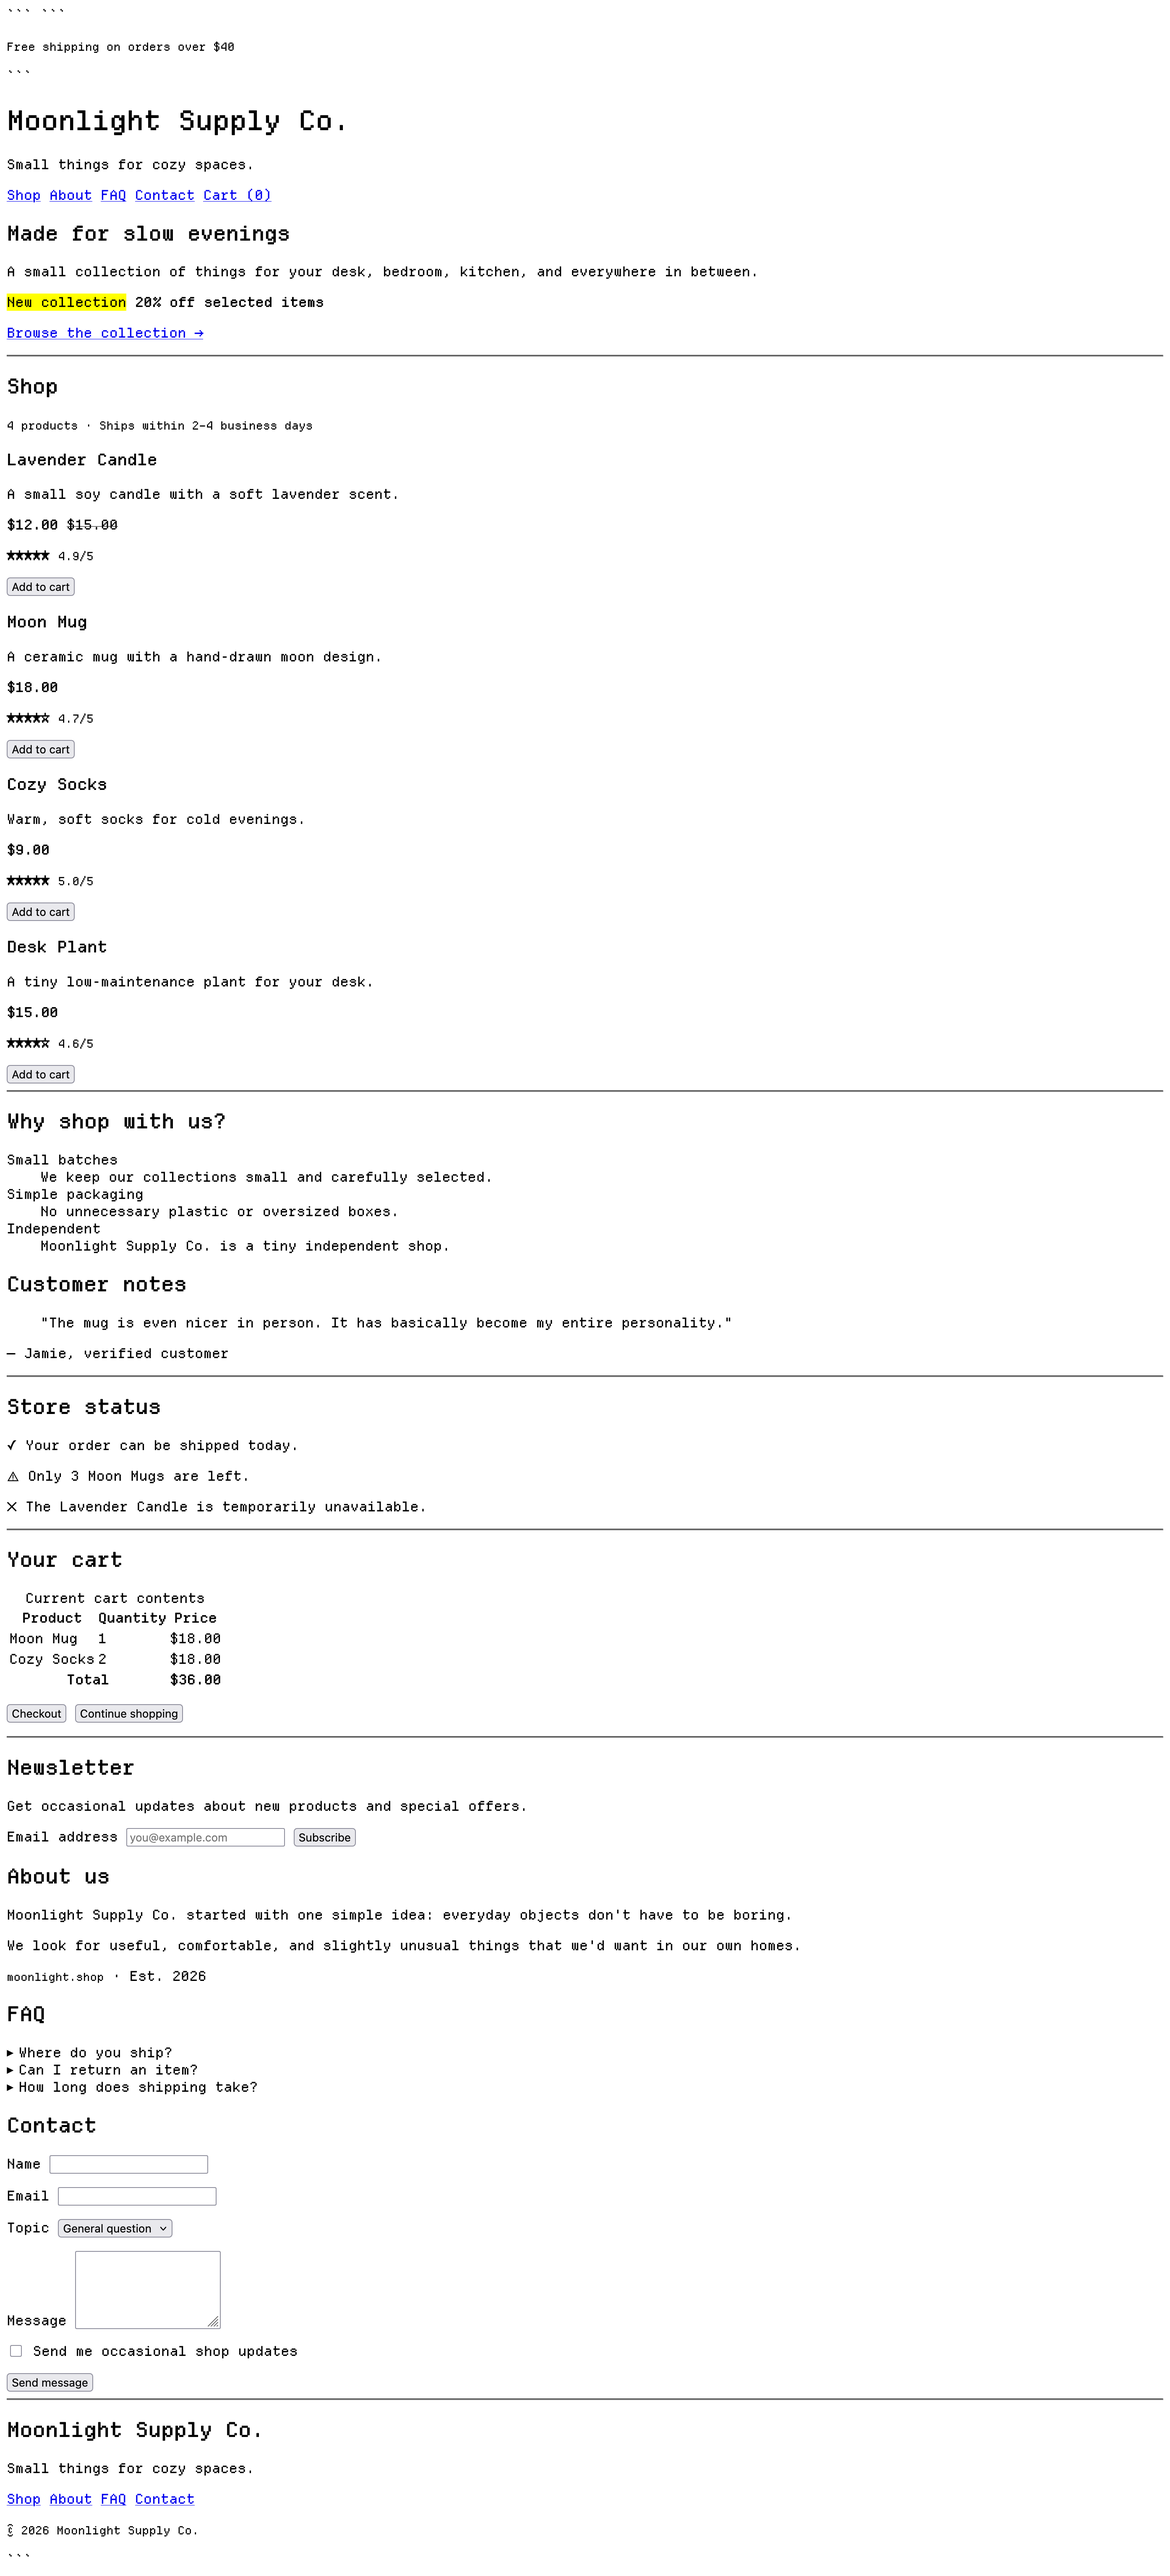
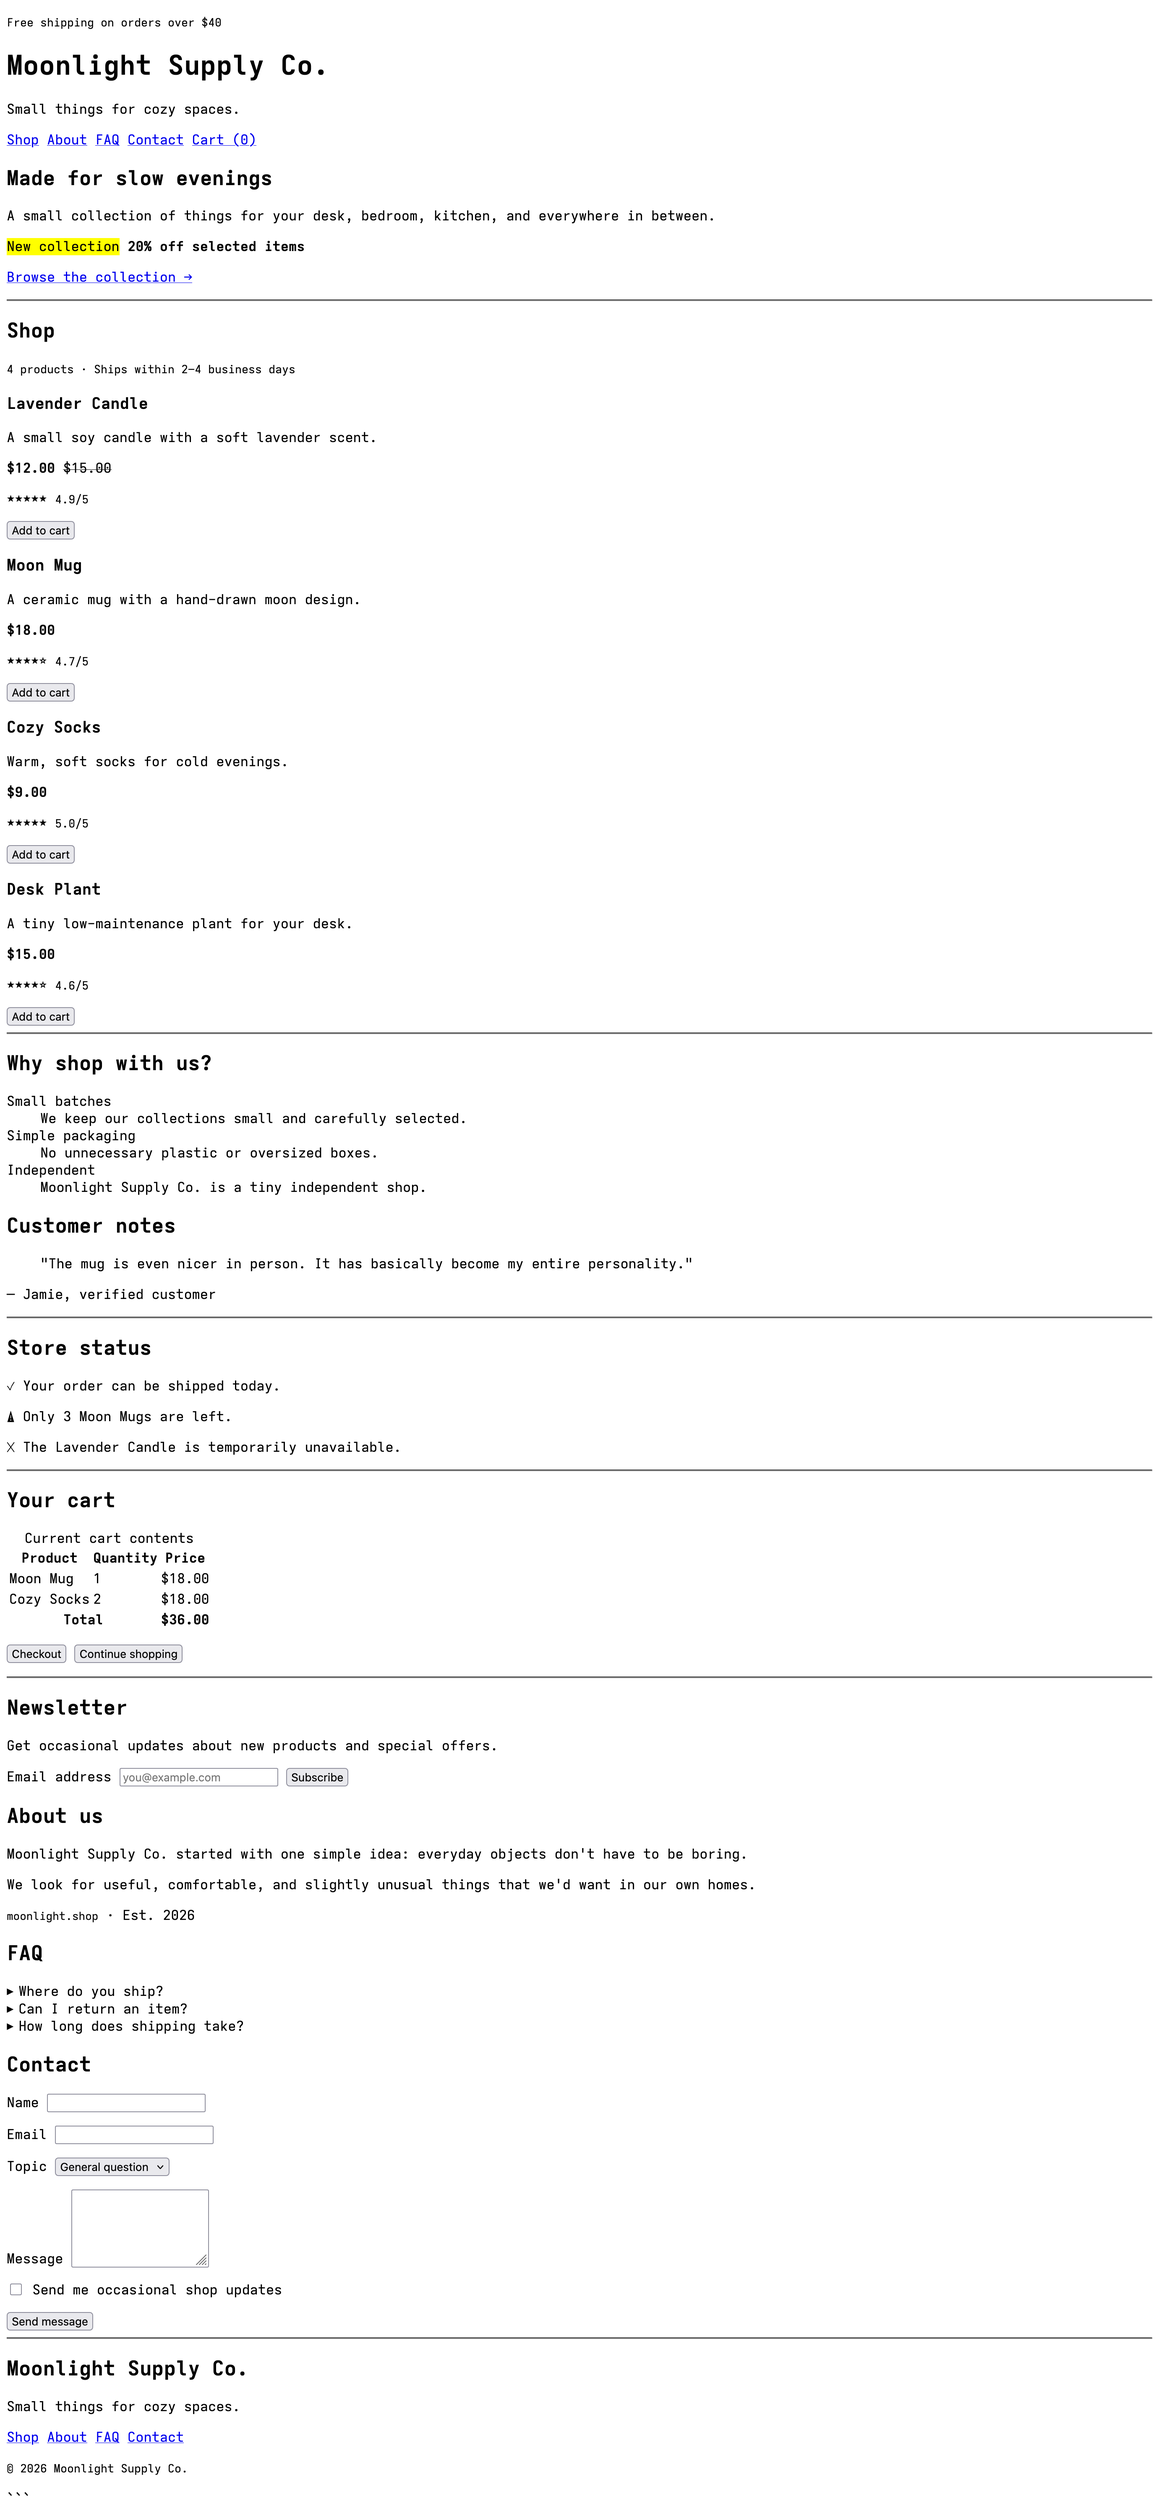
fixed text bug with new demo

diff --git a/demo/style.css b/demo/style.css
@@ -1,103 +1,93 @@
 a:link {
-  color: var(--blue) !important;
+  color: var(--blue);
 }
 
 a:visited {
-  color: var(--mauve) !important;
+  color: var(--mauve);
 }
 
 button, input, textarea, select, list {
-  color: var(--text) !important;
-  background-color: var(--base) !important;
+  color: var(--text);
+  background-color: var(--base);
   border-color: var(--mauve)
 }
 
 button:disabled {
-  background-color: var(--crust) !important;
+  background-color: var(--crust);
 }/* import this file in every html test*/
 
 body {
-  background-color: var(--base) !important;
+  background-color: var(--base);
 }
 
 hr {
-  color: var(--rosewater) !important;
-}h1 {
-  color: var(--text) !important;
+  color: var(--rosewater);
+}h1, dt {
+  color: var(--text);
 }
 
-h2, h3, h4, h5, h6, list, table, form, details {
-  color: var(--subtext1) !important;
+h2, h3, h4, h5, h6, dd, table, form, details {
+  color: var(--subtext1);
 }
 
 p, blockquote, pre, ul, ol, summary {
-  color: var(--subtext0) !important;
+  color: var(--subtext0);
 }
 
 mark {
-  color: var(--yellow) !important;
-  opacity: 75% !important;
+  color: var(--yellow);
+  opacity: 75%;
 }
 
 del {
-  color: var(--red) !important;
+  color: var(--red);
 }
 
 strong {
-  color: var(--text) !important;
+  color: var(--text);
 }
 
 code {
-  color: var(--green) !important;
+  color: var(--green);
 }
 
 th {
-  color: var(--sapphire) !important;
+  color: var(--sapphire);
 }@font-face {
-  font-family: "DepartureMono Nerd Font" !important;
-  src: url("/fonts/DepartureMonoNerdFont-Regular.otf") !important;
-}
-
-@font-face {
-  font-family: "DepartureMono Nerd Font Mono" !important;
-  src: url("/fonts/DepartureMonoNerdFontMono-Regular.otf") !important;
-}
-
-@font-face {
-  font-family: "DepartureMono Nerd Font Propo" !important;
-  src: url("/fonts/DepartureMonoNerdFontPropo-Regular.otf") !important;
+  font-family: "AdwaitaMono Nerd Font";
+  src: url("/fonts/AdwaitaMonoNerdFont-Regular.ttf");
 }
 
 * {
-  font-family: "DepartureMono Nerd Font", monospace !important;
+  font-family: "AwaitaMono Nerd Font", monospace;
 }* {
-  margin: 0 !important;
+  margin: 15px;
 }:root {
-  --rosewater: #f2d5cf !important;
-  --flamingo: #eebebe !important;
-  --pink: #f4b8e4 !important;
-  --mauve: #ca9ee6 !important;
-  --red: #e78284 !important;
-  --maroon: #ea999c !important;
-  --peach: #ef9f76 !important;
-  --yellow: #e5c890 !important;
-  --green: #a6d189 !important;
-  --teal: #81c8be !important;
-  --sky: #99d1db !important;
-  --sapphire: #85c1dc !important;
-  --blue: #8caaee !important;
-  --lavender: #babbf1 !important;
+  --rosewater: #f5e0dc;
+  --flamingo: #f2cdcd;
+  --pink: #f5c2e7;
+  --mauve: #cba6f7;
+  --red: #f38ba8;
+  --maroon: #eba0ac;
+  --peach: #fab387;
+  --yellow: #f9e2af;
+  --green: #a6e3a1;
+  --teal: #94e2d5;
+  --sky: #89dceb;
+  --sapphire: #74c7ec;
+  --blue: #89b4fa;
+  --lavender: #b4befe;
 
-  --text: #c6d0f5 !important;
-  --subtext1: #b5bfe2 !important;
-  --subtext0: #a5adce !important;
-  --overlay2: #949cbb !important;
-  --overlay1: #838ba7 !important;
-  --overlay0: #737994 !important;
-  --surface2: #626880 !important;
-  --surface1: #51576d !important;
-  --surface0: #414559 !important;
-  --base: #303446 !important;
-  --mantle: #292c3c !important;
-  --crust: #232634 !important;
+  --text: #cdd6f4;
+  --subtext1: #bac2de;
+  --subtext0: #a6adc8;
+  --overlay2: #9399b2;
+  --overlay1: #7f849c;
+  --overlay0: #6c7086;
+  --surface2: #585b70;
+  --surface1: #45475a;
+  --surface0: #313244;
+  --base: #1e1e2e;
+  --mantle: #181825;
+  --crust: #11111b;
 }

diff --git a/demo/index.html b/demo/index.html
@@ -5,7 +5,7 @@
   <meta charset="UTF-8">
   <meta content="width=device-width, initial-scale=1.0" name="viewport">
   <title>Moonlight Supply Co.</title>
-  <link href="style.css" rel="stylesheet">
+  <!--<link href="style.css" rel="stylesheet">-->
 </head>
 <body>
 <header>

diff --git a/build/dist/cfrappe/colorv/style.css b/build/dist/cfrappe/colorv/style.css
@@ -22,11 +22,11 @@ body {
 
 hr {
   color: var(--rosewater);
-}h1 {
+}h1, dt {
   color: var(--text);
 }
 
-h2, h3, h4, h5, h6, list, table, form, details {
+h2, h3, h4, h5, h6, dd, table, form, details {
   color: var(--subtext1);
 }
 

diff --git a/build/dist/cfrappe/modernv/style.css b/build/dist/cfrappe/modernv/style.css
@@ -22,11 +22,11 @@ body {
 
 hr {
   color: var(--rosewater);
-}h1 {
+}h1, dt {
   color: var(--text);
 }
 
-h2, h3, h4, h5, h6, list, table, form, details {
+h2, h3, h4, h5, h6, dd, table, form, details {
   color: var(--subtext1);
 }
 

diff --git a/build/dist/cfrappe/pixelv/style.css b/build/dist/cfrappe/pixelv/style.css
@@ -22,11 +22,11 @@ body {
 
 hr {
   color: var(--rosewater);
-}h1 {
+}h1, dt {
   color: var(--text);
 }
 
-h2, h3, h4, h5, h6, list, table, form, details {
+h2, h3, h4, h5, h6, dd, table, form, details {
   color: var(--subtext1);
 }
 

diff --git a/build/dist/cmocha/colorv/style.css b/build/dist/cmocha/colorv/style.css
@@ -22,11 +22,11 @@ body {
 
 hr {
   color: var(--rosewater);
-}h1 {
+}h1, dt {
   color: var(--text);
 }
 
-h2, h3, h4, h5, h6, list, table, form, details {
+h2, h3, h4, h5, h6, dd, table, form, details {
   color: var(--subtext1);
 }
 

diff --git a/build/dist/cmocha/modernv/style.css b/build/dist/cmocha/modernv/style.css
@@ -22,11 +22,11 @@ body {
 
 hr {
   color: var(--rosewater);
-}h1 {
+}h1, dt {
   color: var(--text);
 }
 
-h2, h3, h4, h5, h6, list, table, form, details {
+h2, h3, h4, h5, h6, dd, table, form, details {
   color: var(--subtext1);
 }
 

diff --git a/build/dist/cmocha/pixelv/style.css b/build/dist/cmocha/pixelv/style.css
@@ -22,11 +22,11 @@ body {
 
 hr {
   color: var(--rosewater);
-}h1 {
+}h1, dt {
   color: var(--text);
 }
 
-h2, h3, h4, h5, h6, list, table, form, details {
+h2, h3, h4, h5, h6, dd, table, form, details {
   color: var(--subtext1);
 }
 

diff --git a/build/dist/nord/colorv/style.css b/build/dist/nord/colorv/style.css
@@ -22,11 +22,11 @@ body {
 
 hr {
   color: var(--nord7);
-}h1 {
+}h1, dt {
   color: var(--nord6);
 }
 
-h2, h3, h4, h5, h6, list, table, form, details {
+h2, h3, h4, h5, h6, dd, table, form, details {
   color: var(--nord5);
 }
 

diff --git a/build/dist/nord/modernv/style.css b/build/dist/nord/modernv/style.css
@@ -22,11 +22,11 @@ body {
 
 hr {
   color: var(--nord7);
-}h1 {
+}h1, dt {
   color: var(--nord6);
 }
 
-h2, h3, h4, h5, h6, list, table, form, details {
+h2, h3, h4, h5, h6, dd, table, form, details {
   color: var(--nord5);
 }
 

diff --git a/build/dist/nord/pixelv/style.css b/build/dist/nord/pixelv/style.css
@@ -22,11 +22,11 @@ body {
 
 hr {
   color: var(--nord7);
-}h1 {
+}h1, dt {
   color: var(--nord6);
 }
 
-h2, h3, h4, h5, h6, list, table, form, details {
+h2, h3, h4, h5, h6, dd, table, form, details {
   color: var(--nord5);
 }
 

diff --git a/src/cfrappe/colorv/text.css b/src/cfrappe/colorv/text.css
@@ -1,8 +1,8 @@
-h1 {
+h1, dt {
   color: var(--text);
 }
 
-h2, h3, h4, h5, h6, list, table, form, details {
+h2, h3, h4, h5, h6, dd, table, form, details {
   color: var(--subtext1);
 }
 
